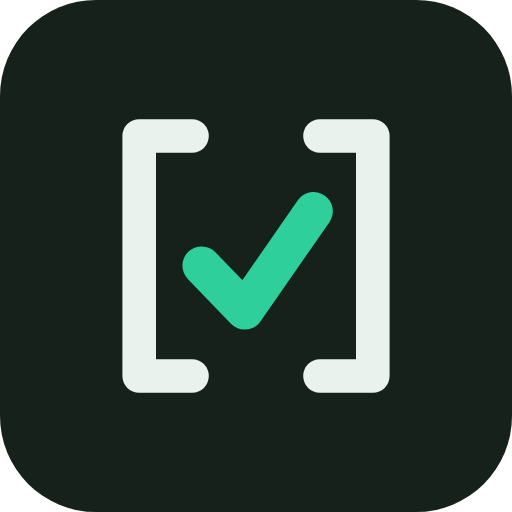
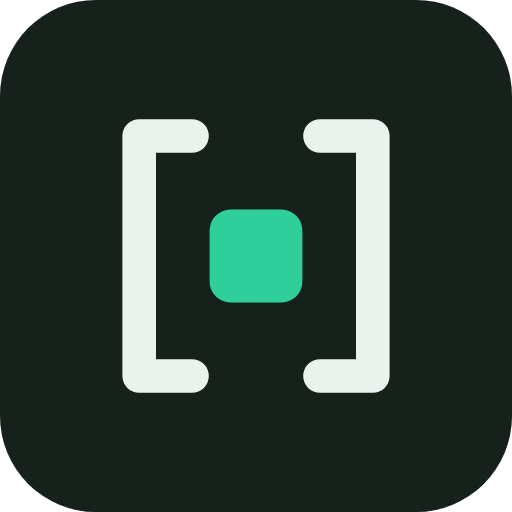
Swap the mark: the brackets now hold a module, not a check
The check collided with the field. Microsoft.Extensions.Validation's mark is a
checkbox - brackets around a check, ours almost exactly - and DataAnnotations
is a check on a tile; MiniValidation's green M and FluentValidation's F rule
out letter marks as well, and V+M reads as virtual machines besides. Round two
of the exploration replaced the tick with what the name promises: an attribute
bracket pair holding a module block.

Content-only swap. logo.svg, logo-dark.svg, icon.svg, the favicon and the
re-rasterized icon.png change in place; the README picture, docs navbar
wiring, and NuGet PackageIcon plumbing stay exactly as committed. Colors are
unchanged - the site's #0f9d76 emerald, brightened to #2fcf9c on dark, over
green-biased ink.

Verified: the pack is warning-free with the new icon.png (pixel-probed:
accent block, light brackets, transparent corners), and the VitePress build
ships the updated logos and favicon.

Claude-Session: https://claude.ai/code/session_01BQdWfMbqkoFonQ4X5nwK3s

Changed region(s): [[0.3438, 0.375, 0.6562, 0.6562]]

diff --git a/README.md b/README.md
@@ -4,7 +4,7 @@
   <source media="(prefers-color-scheme: dark)"
           srcset="https://raw.githubusercontent.com/ipjohnson/ValidationModules/main/assets/logo-dark.svg">
   <img src="https://raw.githubusercontent.com/ipjohnson/ValidationModules/main/assets/logo.svg"
-       alt="An attribute bracket pair holding a check" width="88" height="88">
+       alt="An attribute bracket pair holding a module" width="88" height="88">
 </picture>
 
 # ValidationModules
